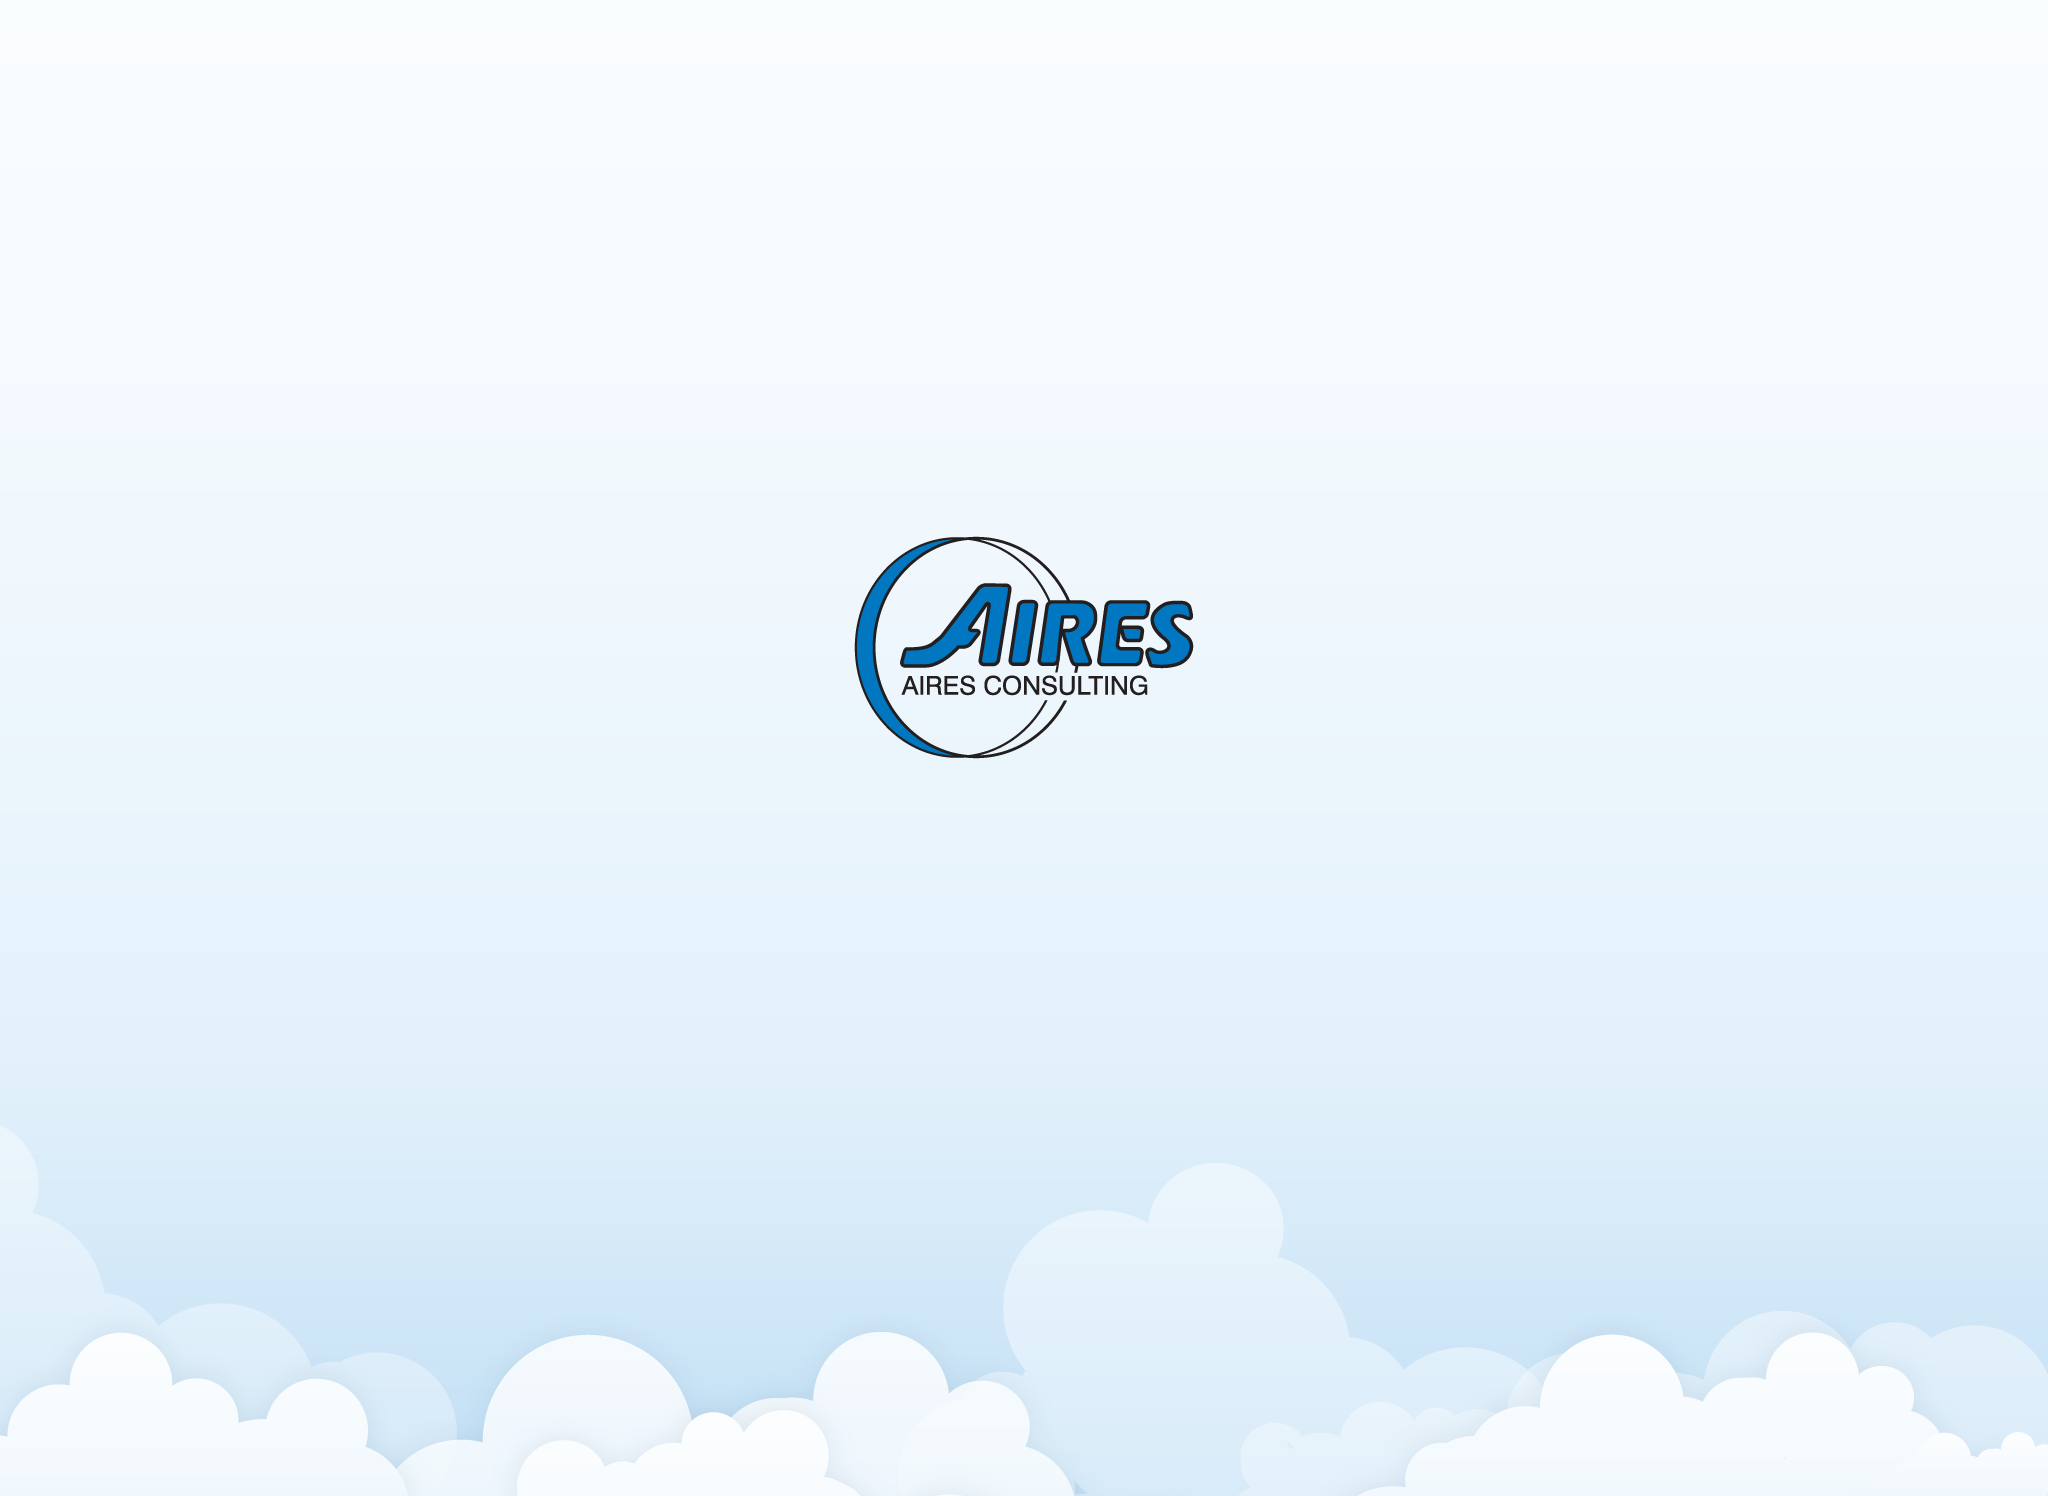
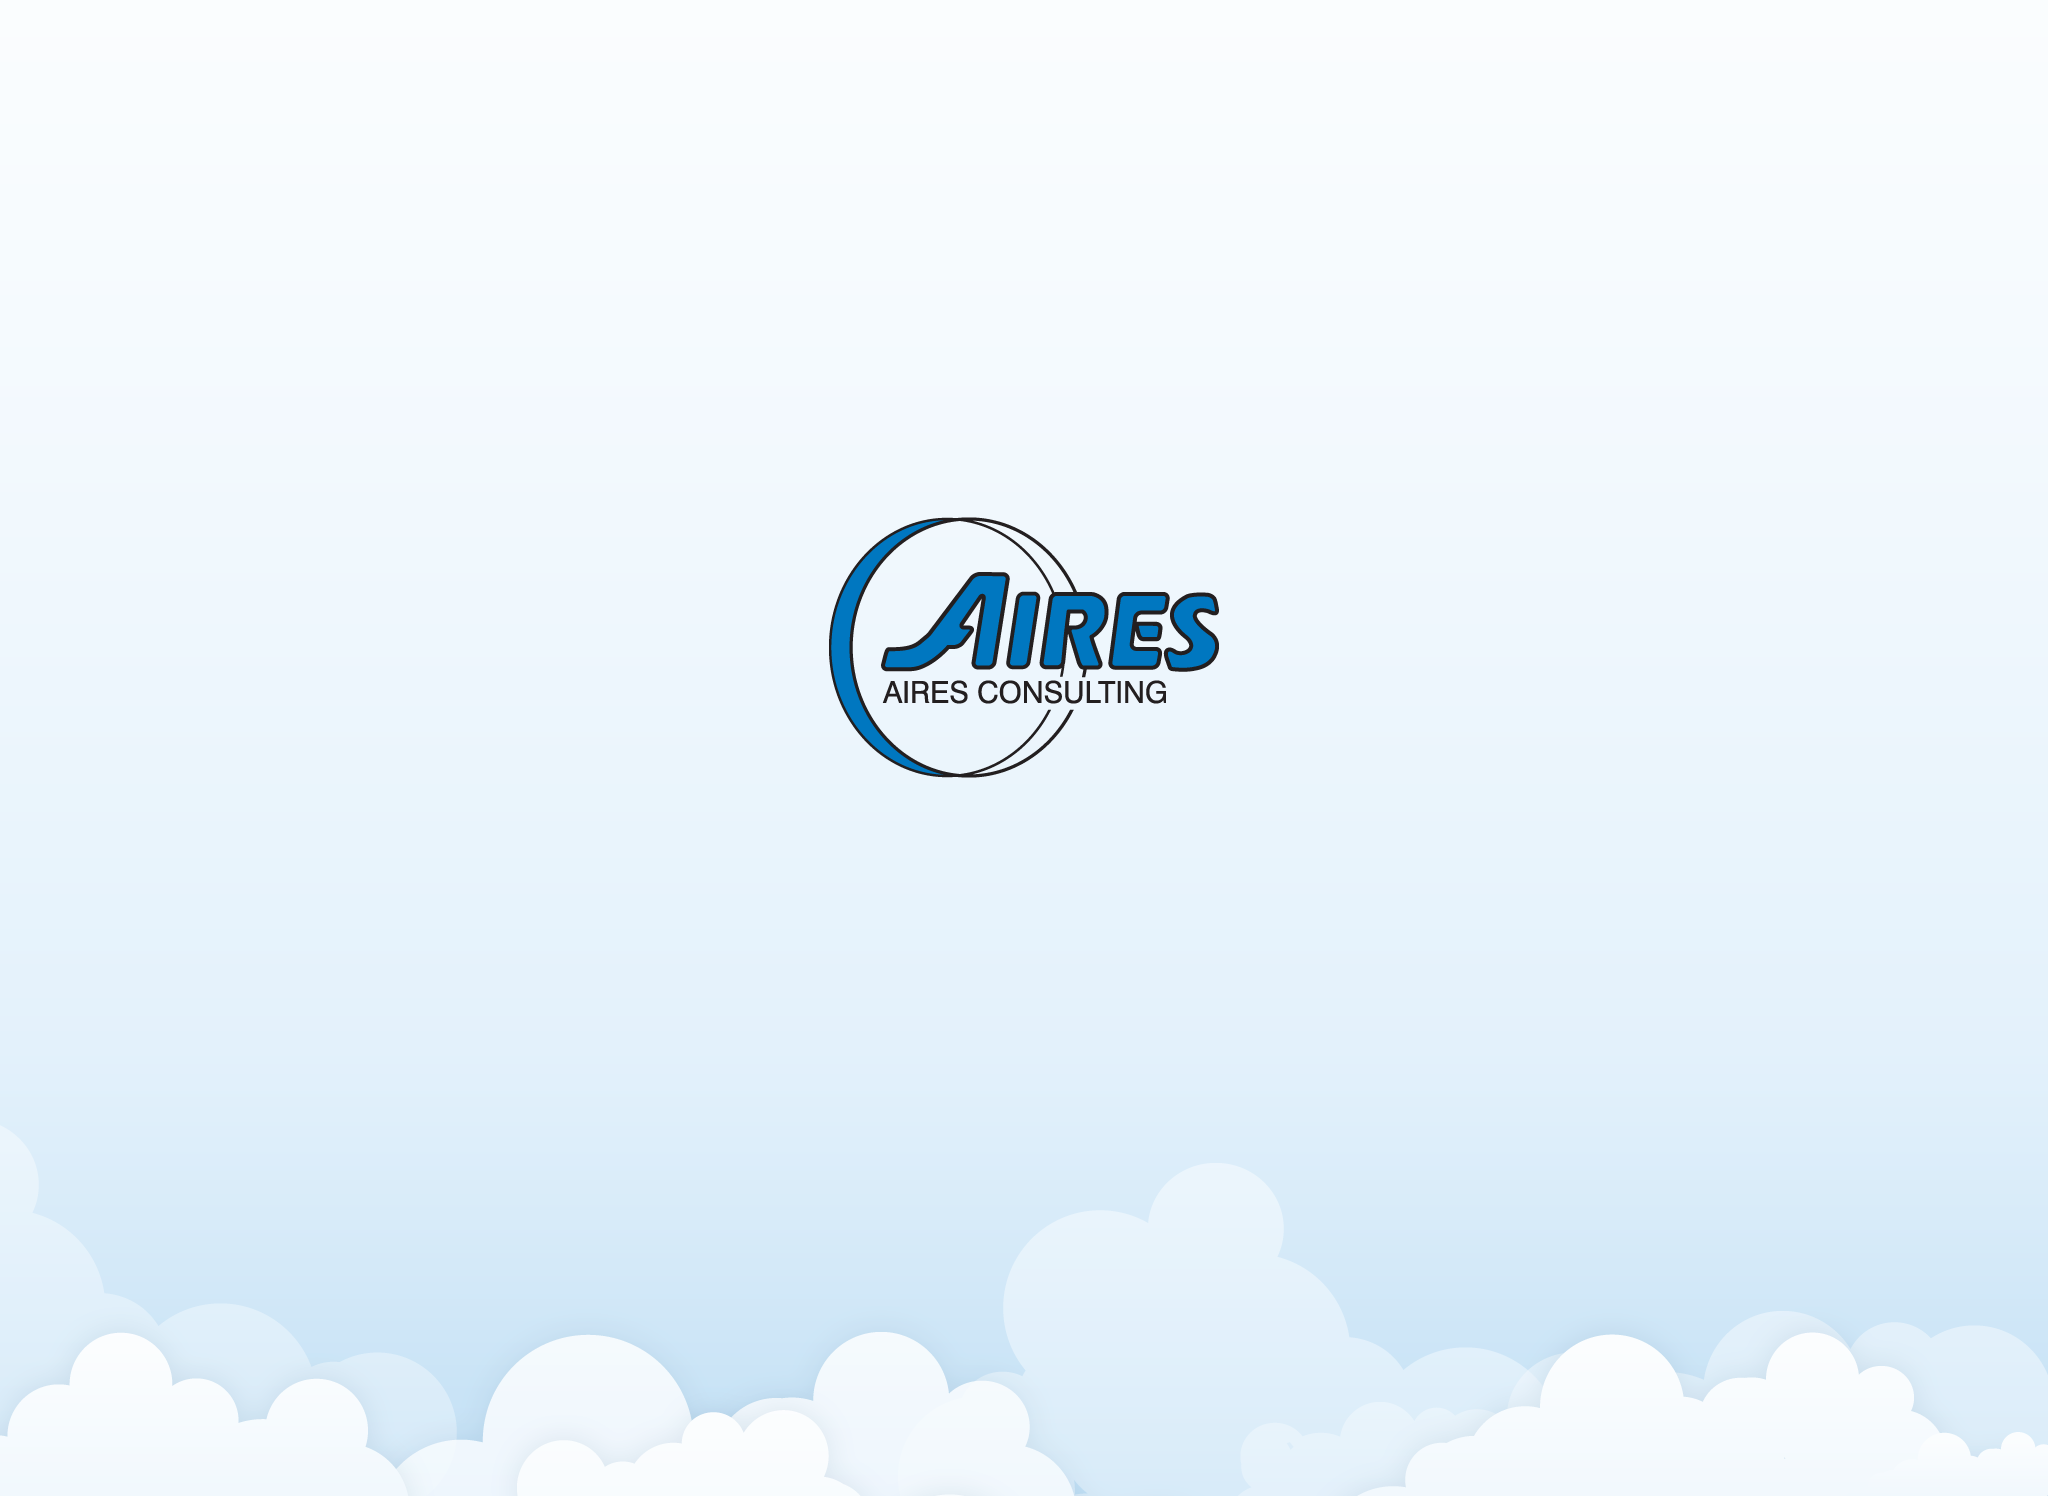
UI modifications - Splash screen, carousel loading in Dashboard

Changed region(s): [[0.4062, 0.3382, 0.5938, 0.5227]]

diff --git a/aires/ViewControllers/ProjectViewController.m b/aires/ViewControllers/ProjectViewController.m
@@ -60,7 +60,7 @@
     
     _samplesCarousel.type = iCarouselTypeLinear;
     _samplesCarousel.bounceDistance = 0.25f;
-    _samplesCarousel.scrollSpeed = 0.6f;
+    _samplesCarousel.scrollSpeed = 0.75f;
 }
 
 -(IBAction)homeButtonPressed:(id)sender
@@ -127,7 +127,7 @@
             label.shadowOffset = CGSizeMake(0, 2);
             [sView addSubview:label];
             
-            UILabel *sLabel = [[UILabel alloc] initWithFrame:CGRectMake(0, 27, 60, 15)];
+            UILabel *sLabel = [[UILabel alloc] initWithFrame:CGRectMake(0, 28, 60, 15)];
             sLabel.backgroundColor = [UIColor clearColor];
             sLabel.text = @"Sample";
             sLabel.font = [UIFont fontWithName:@"ProximaNova-Bold" size:10.0f];

diff --git a/aires/ViewControllers/DashboardViewController.m b/aires/ViewControllers/DashboardViewController.m
@@ -62,7 +62,20 @@
 
     _projectsArray = [[NSMutableArray alloc] init];
     [_projectsArray addObjectsFromArray:[[mSingleton getPersistentStoreManager] getUserProjects]];
+
+    _activeProjectsCarousel.alpha = 0.0f;
+    _completedProjectsCarousel.alpha = 0.0f;
+    [self performSelector:@selector(loadCarousel) withObject:nil afterDelay:0.5];
+}
+
+-(void)loadCarousel
+{
+    [UIView animateWithDuration:0.15 animations:^{
+        _activeProjectsCarousel.alpha = 1.0f;
+        _completedProjectsCarousel.alpha = 1.0f;
+    }];
     [_activeProjectsCarousel reloadData];
+    [_completedProjectsCarousel reloadData];
 }
 
 -(void)awakeFromNib

diff --git a/aires/ViewControllers/LoginViewController.m b/aires/ViewControllers/LoginViewController.m
@@ -59,7 +59,7 @@
     
     CGRect logoFrame = airesLogoImageView.frame;
     logoFrame.origin.y = 78.0f;
-    
+
     [UIView animateWithDuration:0.45
                      animations:^{
                          airesLogoImageView.frame = logoFrame;
